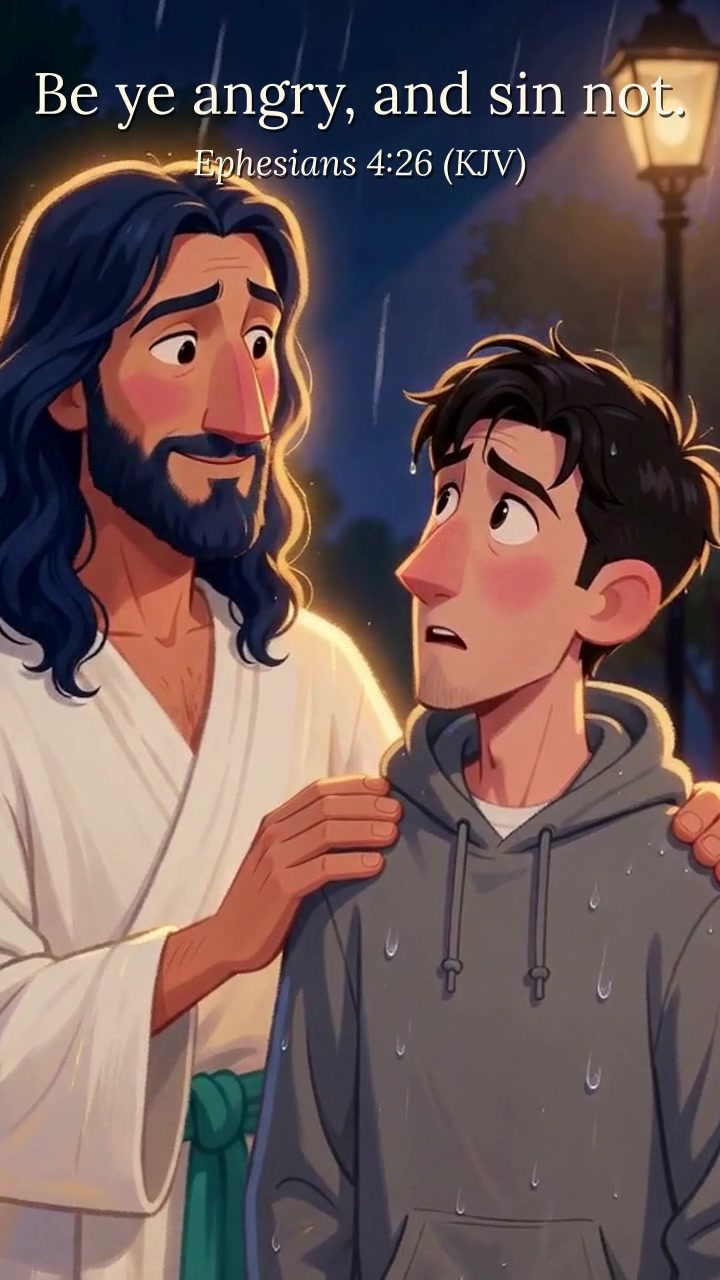
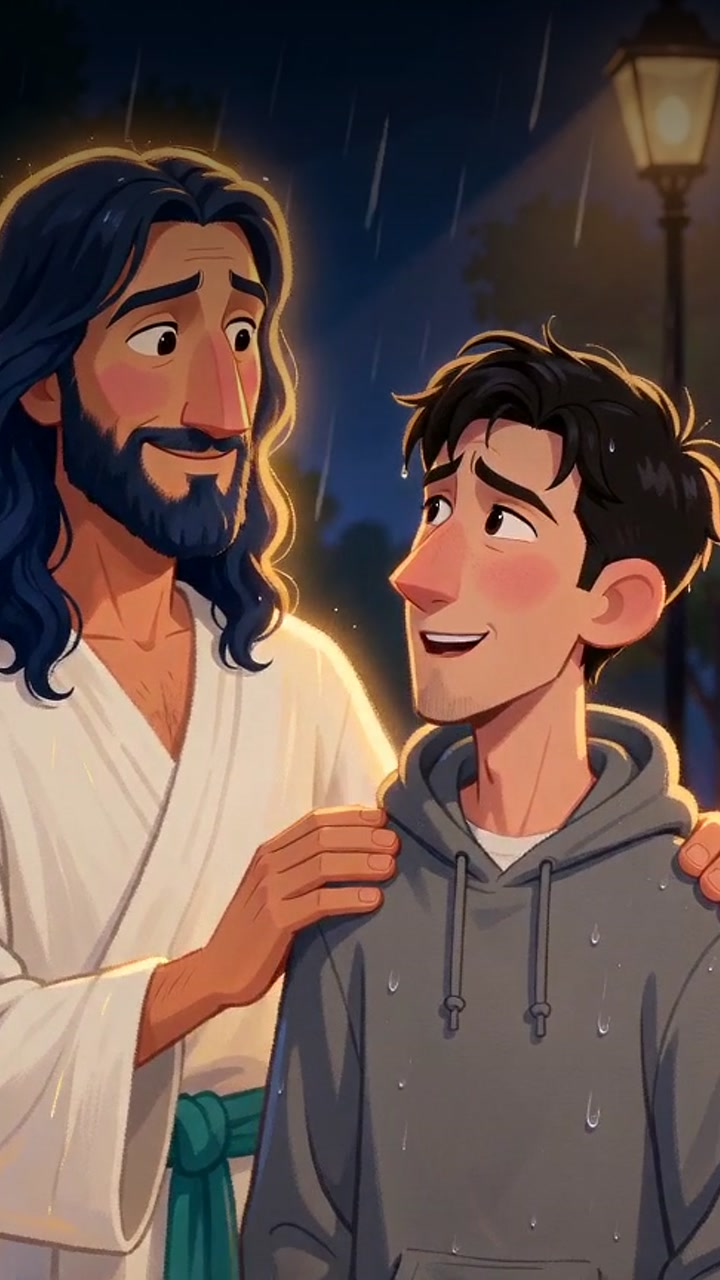
The Last Straw: text-free poster with dark top (label AA), ll-v63

diff --git a/sw.js b/sw.js
@@ -1,6 +1,6 @@
 // Offline support: the app shell is cached on install; fonts are cached the first time they load.
 // Bump VERSION whenever a cached file changes so visitors get the new one.
-const VERSION = 'll-v62';
+const VERSION = 'll-v63';
 const SHELL = [
   './',
   'index.html',
